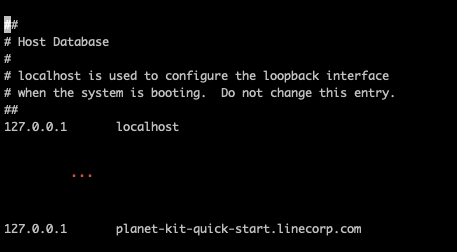
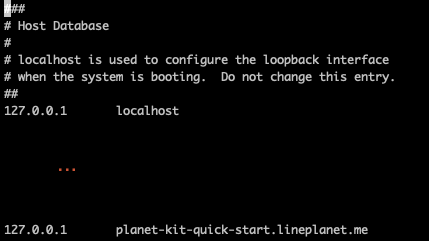
Change local guide domain

diff --git a/GroupAudioCall/server.js b/GroupAudioCall/server.js
@@ -23,7 +23,7 @@ const app = express();
 const compiler = webpack(webpackConfig);
 
 const PORT = process.env.PORT || 3000;
-const HOST = "planet-kit-quick-start.linecorp.com";
+const HOST = "planet-kit-quick-start.lineplanet.me";
 
 app.use(
   webpackDevMiddleware(compiler, {

diff --git a/README.md b/README.md
@@ -70,7 +70,7 @@ This quick start project provides basic functionality of a **group audio call**.
   3. Scroll to the bottom of the file and add the following line:
 
      ```
-     127.0.0.1       planet-kit-quick-start.linecorp.com
+     127.0.0.1       planet-kit-quick-start.lineplanet.me
      ```
 
   4. Save the file and close Notepad.
@@ -88,12 +88,12 @@ This quick start project provides basic functionality of a **group audio call**.
   4. Scroll to the bottom of the file and add the following line:
 
      ```
-     127.0.0.1       planet-kit-quick-start.linecorp.com
+     127.0.0.1       planet-kit-quick-start.lineplanet.me
      ```
 
   5. Press `Ctrl + O` to save the file, then `Enter` to confirm, and `Ctrl + X` to exit nano.
 
-After completing these steps, you will have successfully mapped the quick start domain (`planet-kit-quick-start.linecorp.com`) to your localhost (`127.0.0.1`).
+After completing these steps, you will have successfully mapped the quick start domain (`planet-kit-quick-start.lineplanet.me`) to your localhost (`127.0.0.1`).
 
 <img src="/images/hosts_file.png" width="400"/>
 
@@ -168,7 +168,7 @@ To run the quick start project, ensure you are in the `planet-kit-quickstart-web
 
    **Note**: If you're using the VS Code terminal and encounter a pop-up requesting access to control your browser, select "Allow" to proceed. This permission enables the application to launch.
 
-4. **Open the web page**: After starting the application, you can use the quick start app at `https://planet-kit-quick-start.linecorp.com:3000`.
+4. **Open the web page**: After starting the application, you can use the quick start app at `https://planet-kit-quick-start.lineplanet.me:3000`.
 
 ### 6. Join a group audio call
 
@@ -215,14 +215,14 @@ You can use your browser's Developer Tools to check error messages and logs. Her
 
 ### Invalid certificate authority warning
 
-When running the app in a local environment, you might encounter a `NET::ERR_CERT_AUTHORITY_INVALID` warning in your browser, indicating the site's security certificate is not trusted. This warning is common in local environments because the test domain specified in your hosts file (`planet-kit-quick-start.linecorp.com`) does not have a corresponding valid SSL certificate recognized by your browser.
+When running the app in a local environment, you might encounter a `NET::ERR_CERT_AUTHORITY_INVALID` warning in your browser, indicating the site's security certificate is not trusted. This warning is common in local environments because the test domain specified in your hosts file (`planet-kit-quick-start.lineplanet.me`) does not have a corresponding valid SSL certificate recognized by your browser.
 
-Since the warning occurs in a controlled local environment targeting `planet-kit-quick-start.linecorp.com` mapped to `127.0.0.1`, it's safe to proceed because the connection is for `local`.
+Since the warning occurs in a controlled local environment targeting `planet-kit-quick-start.lineplanet.me` mapped to `127.0.0.1`, it's safe to proceed because the connection is for `local`.
 
 #### How to Proceed
 
 - For Chrome users
-  - Click "Advanced" and select "Proceed to `planet-kit-quick-start.linecorp.com`(unsafe)".
+  - Click "Advanced" and select "Proceed to `planet-kit-quick-start.lineplanet.me`(unsafe)".
 - For Safari users
   - Click "Show Details", then "visit this website".
 
